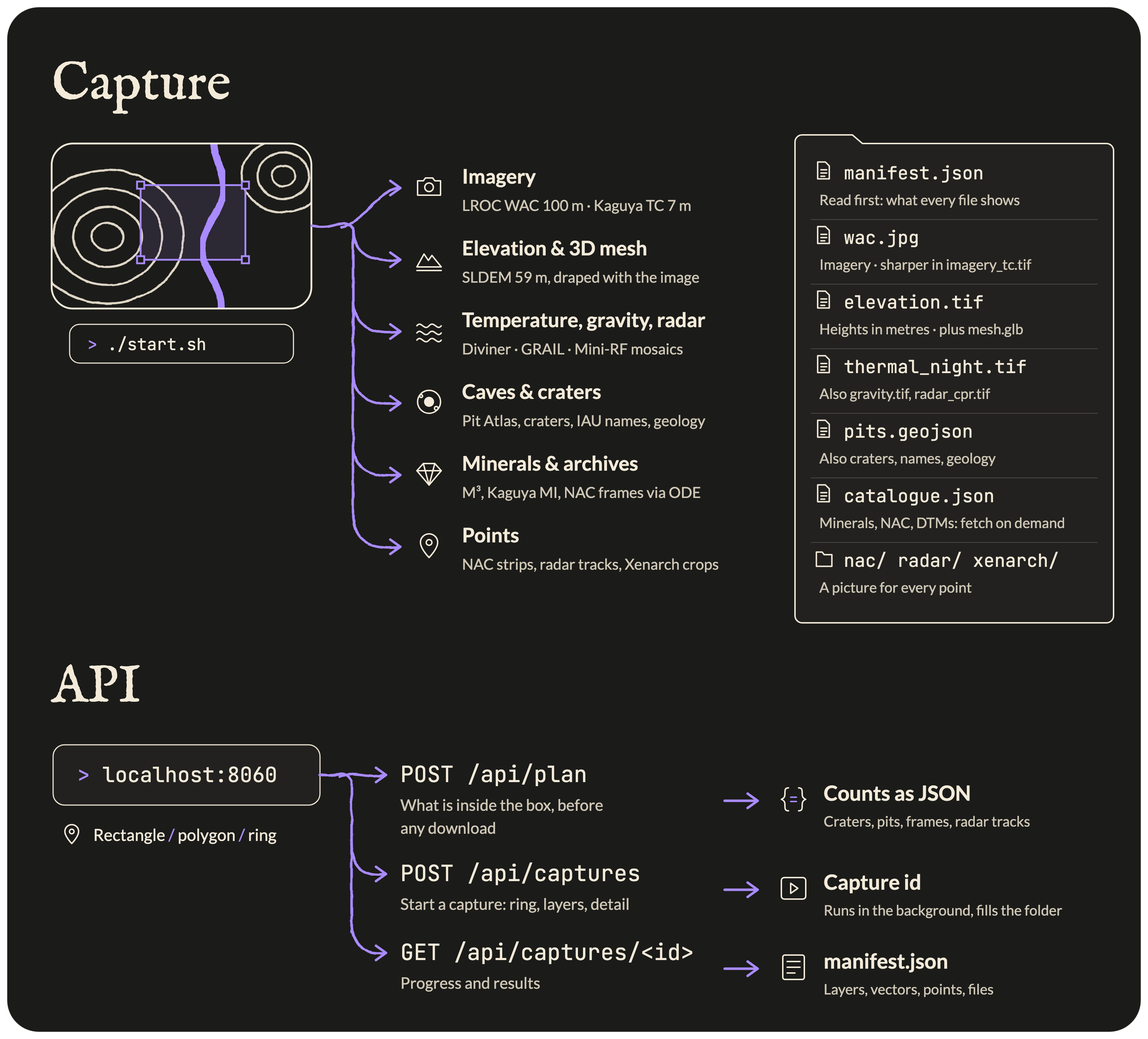
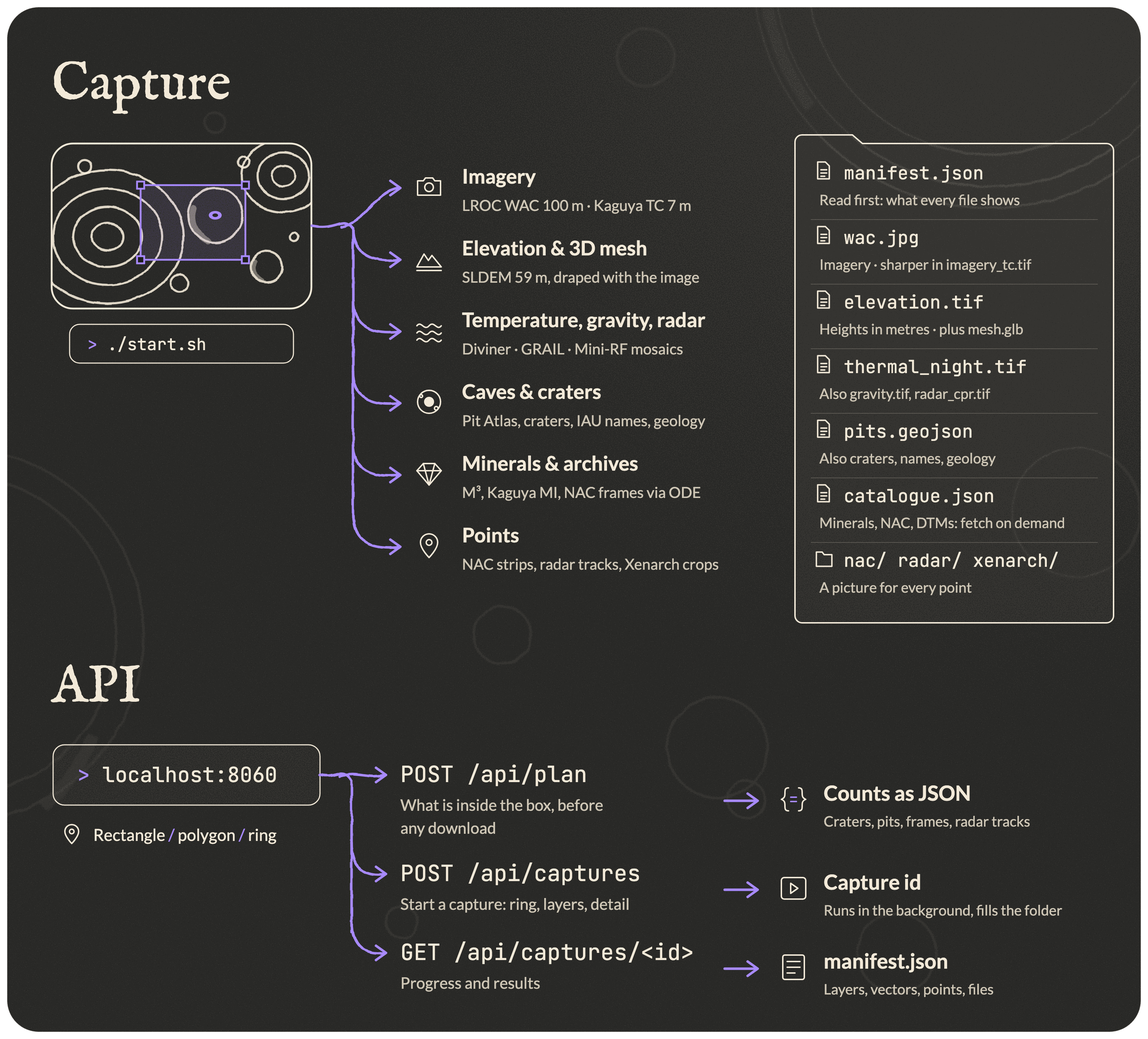
README diagram: craters instead of the rille, lunar grain in the background

diff --git a/resources/show.html b/resources/show.html
@@ -1,6 +1,16 @@
 <!doctype html><meta charset="utf-8"><link rel="stylesheet" href="https://fonts.googleapis.com/css2?family=IM+Fell+English&family=Lato:wght@400;700&family=JetBrains+Mono:wght@400;500&display=swap"><style>html,body{margin:0;background:transparent}svg{display:block}</style><svg xmlns="http://www.w3.org/2000/svg" viewBox="0 0 1600 1448" width="1600" height="1448">
-<defs><filter id="rough" x="-5%" y="-5%" width="110%" height="110%"><feTurbulence type="fractalNoise" baseFrequency="0.045" numOctaves="2" seed="3" result="n"/><feDisplacementMap in="SourceGraphic" in2="n" scale="3.5" xChannelSelector="R" yChannelSelector="G"/></filter></defs>
-<rect x="10" y="10" width="1580" height="1428" rx="44" fill="#1b1b19" stroke="rgba(243,234,217,.18)"/>
+<defs>
+<filter id="grain" x="0" y="0" width="100%" height="100%"><feTurbulence type="fractalNoise" baseFrequency=".85" numOctaves="3" seed="7" stitchTiles="stitch"/><feColorMatrix values="0 0 0 0 .95  0 0 0 0 .92  0 0 0 0 .85  0 0 0 .13 0"/></filter>
+<filter id="soft" x="-20%" y="-20%" width="140%" height="140%"><feTurbulence type="fractalNoise" baseFrequency=".05" numOctaves="2" seed="9" result="n"/><feDisplacementMap in="SourceGraphic" in2="n" scale="4"/><feGaussianBlur stdDeviation="1.4"/></filter>
+<radialGradient id="glow" cx="90%" cy="0%" r="70%"><stop offset="0" stop-color="#f3ead9" stop-opacity=".07"/><stop offset="1" stop-color="#f3ead9" stop-opacity="0"/></radialGradient>
+<clipPath id="card"><rect x="10" y="10" width="1580" height="1428" rx="44"/></clipPath><filter id="rough" x="-5%" y="-5%" width="110%" height="110%"><feTurbulence type="fractalNoise" baseFrequency="0.045" numOctaves="2" seed="3" result="n"/><feDisplacementMap in="SourceGraphic" in2="n" scale="3.5" xChannelSelector="R" yChannelSelector="G"/></filter></defs>
+<rect x="10" y="10" width="1580" height="1428" rx="44" fill="#1b1b19" stroke="rgba(243,234,217,.18)"/><g clip-path="url(#card)"><rect x="10" y="10" width="1580" height="1428" fill="url(#glow)"/><rect x="10" y="10" width="1580" height="1428" filter="url(#grain)"/>
+<g filter="url(#soft)" fill="none" stroke="#f3ead9" stroke-width="2.5" opacity=".10">
+<circle cx="1380" cy="-40" r="330"/><circle cx="1380" cy="-40" r="300"/><circle cx="1380" cy="-40" r="255"/><path d="M1130 150a330 330 0 0 1-60-140" stroke-width="18" opacity=".6"/>
+<circle cx="-60" cy="885" r="260"/><circle cx="-60" cy="885" r="222"/><path d="M130 1025a260 260 0 0 1-70 100" stroke-width="16" opacity=".6"/>
+<circle cx="1000" cy="1042" r="70"/><circle cx="1040" cy="1114" r="26"/><circle cx="700" cy="885" r="40"/><circle cx="1500" cy="714" r="90"/>
+<circle cx="300" cy="171" r="14"/><circle cx="900" cy="80" r="40"/><circle cx="1250" cy="1328" r="55"/><circle cx="560" cy="1285" r="22"/>
+</g></g>
 <text x="72" y="138" font-family="'IM Fell English', Georgia, serif" font-size="74" font-weight="400" fill="#f3ead9" >Capture</text>
 <clipPath id="mc"><rect x="72" y="200" width="362" height="230" rx="30"/></clipPath>
 <g clip-path="url(#mc)"><rect x="72" y="200" width="362" height="230" fill="#15151300"/>
@@ -13,7 +23,12 @@
 <ellipse cx="395" cy="245" rx="36" ry="32"/>
 <ellipse cx="395" cy="245" rx="58" ry="51"/>
 </g>
-<path d="M300 180c-10 40 20 60 10 95s-40 55-25 90 30 50 20 80" fill="none" stroke="#a98bff" stroke-width="10" stroke-linecap="round" filter="url(#rough)"/>
+<g filter="url(#rough)" fill="none" stroke="#f3ead9" stroke-width="3" stroke-linecap="round" opacity=".9">
+<circle cx="300" cy="300" r="38"/><path d="M270 290a38 38 0 0 0 20 46" stroke-width="9" opacity=".45"/>
+<circle cx="372" cy="372" r="22"/><path d="M355 364a22 22 0 0 0 10 28" stroke-width="6" opacity=".45"/>
+<circle cx="250" cy="395" r="12"/><circle cx="340" cy="226" r="8"/><circle cx="118" cy="232" r="9"/><circle cx="410" cy="330" r="6"/>
+</g>
+<ellipse cx="300" cy="300" rx="9" ry="6" fill="#a98bff"/><ellipse cx="300" cy="300" rx="4" ry="2.5" fill="#1b1b19"/>
 </g>
 <rect x="72" y="200" width="362" height="230" rx="30" fill="none" stroke="#f3ead9" stroke-width="2.5"/>
 <rect x="196" y="258" width="146" height="104" fill="rgba(169,139,255,.12)" stroke="#a98bff" stroke-width="2.5"/>
